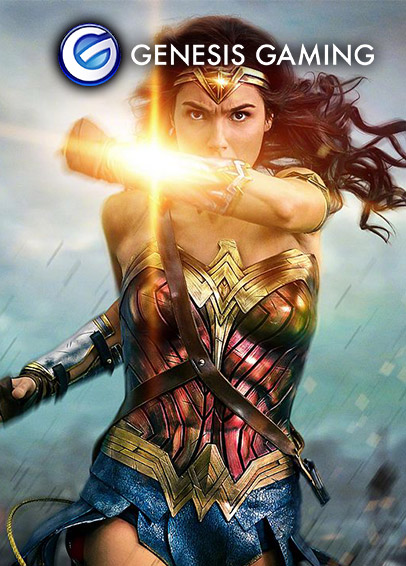
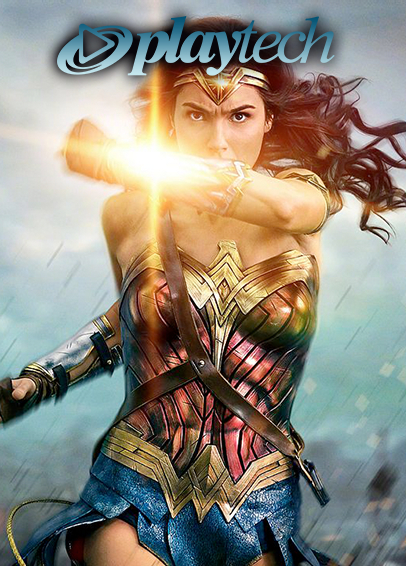
index casino img change

diff --git a/src/components/Index.vue b/src/components/Index.vue
@@ -90,15 +90,15 @@
                 </div>
                 <div class="item_casino">
                     <div class="img"><img src="static/images/casino_2.jpg" alt=""></div>
-                    <div class="item item_gpi">电子游艺<br />MACHINE SLOTS</div>
+                    <div class="item item_bbin">电子游艺<br />MACHINE SLOTS</div>
                 </div>
                 <div class="item_casino">
                     <div class="img"><img src="static/images/casino_3.jpg" alt=""></div>
-                    <div class="item item_mw">电子游艺<br />MACHINE SLOTS</div>
+                    <div class="item item_ag">电子游艺<br />MACHINE SLOTS</div>
                 </div>
                 <div class="item_casino">
                     <div class="img"><img src="static/images/casino_4.jpg" alt=""></div>
-                    <div class="item item_gns">电子游艺<br />MACHINE SLOTS</div>
+                    <div class="item item_pt">电子游艺<br />MACHINE SLOTS</div>
                 </div>
             </div>
         </div>
@@ -324,8 +324,8 @@ export default {
         });
     },
 
-    
-    
+
+
 
     // 真人视讯
     getLiveGame: function () {
@@ -339,7 +339,7 @@ export default {
                 common.Cookie.set('liveList', JSON.stringify(_self.liveList));
             });
     },
-    
+
   }
 }
 </script>

diff --git a/static/css/pages.css b/static/css/pages.css
@@ -120,6 +120,12 @@
 
 .index_casino .casino_slider .item_casino .item.item_gns { background-image: url(img/item_gns.png); }
 
+.index_casino .casino_slider .item_casino .item.item_ag { background-image: url(img/item_ag.png); }
+
+.index_casino .casino_slider .item_casino .item.item_bbin { background-image: url(img/item_bbin.png); }
+
+.index_casino .casino_slider .item_casino .item.item_pt { background-image: url(img/item_pt.png); }
+
 .index_casino .casino_slider .item_casino:hover { color: #fff; background-image: url(img/bg_gdr_gold.jpg); background-position: 50% 50%; background-size: 300% 100%; -webkit-animation-name: borderGold; animation-name: borderGold; -webkit-animation-duration: 1s; animation-duration: 1s; -webkit-animation-iteration-count: infinite; animation-iteration-count: infinite; }
 
 .index_casino .casino_slider .slick-arrow.slick-next { right: -30px !important; }
